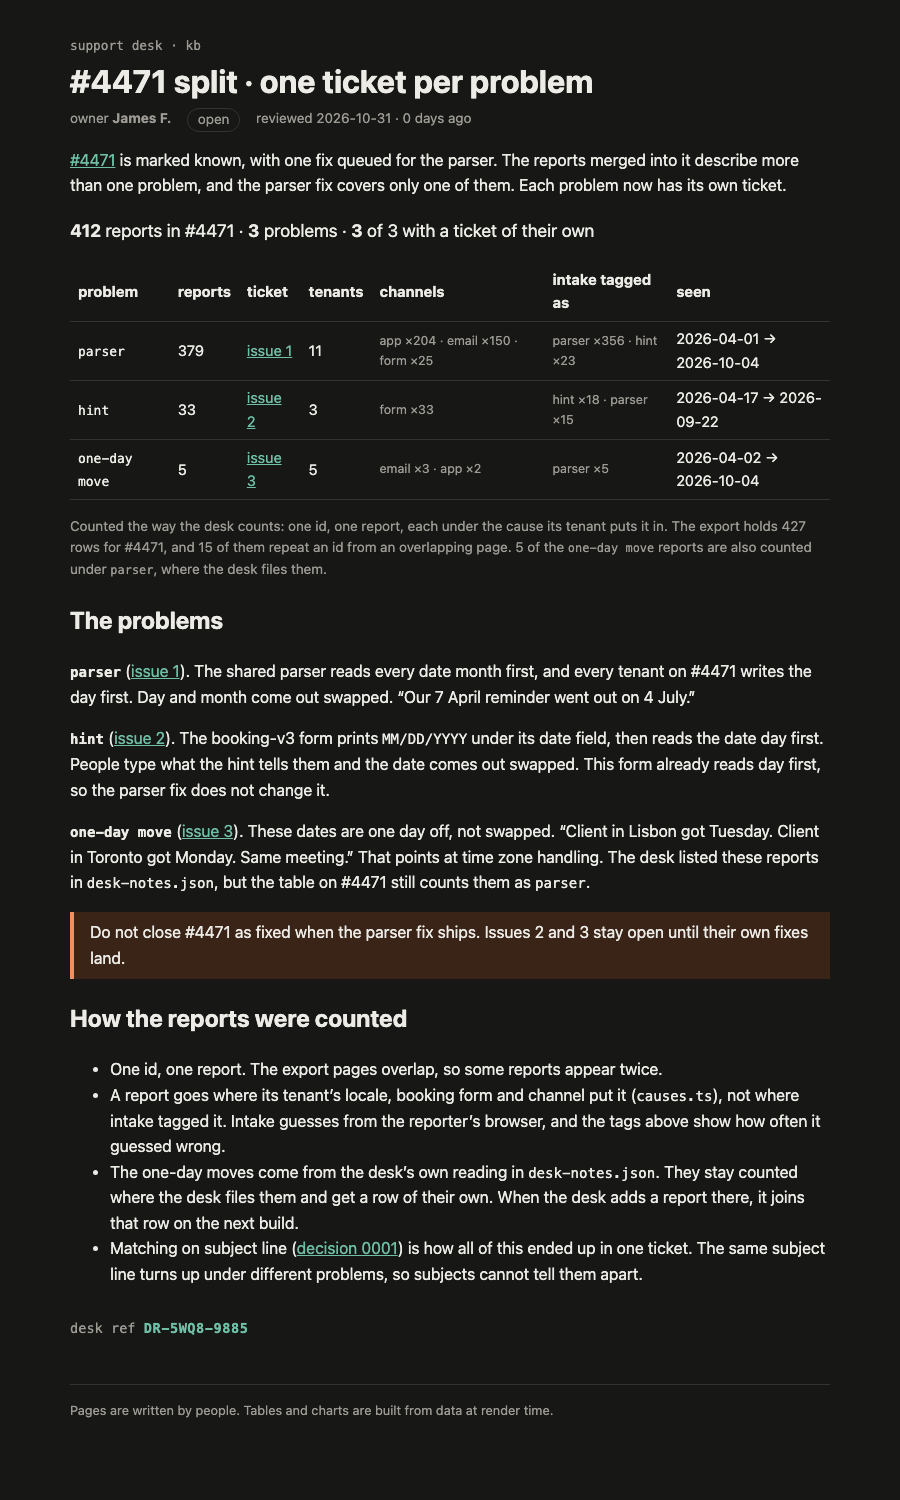
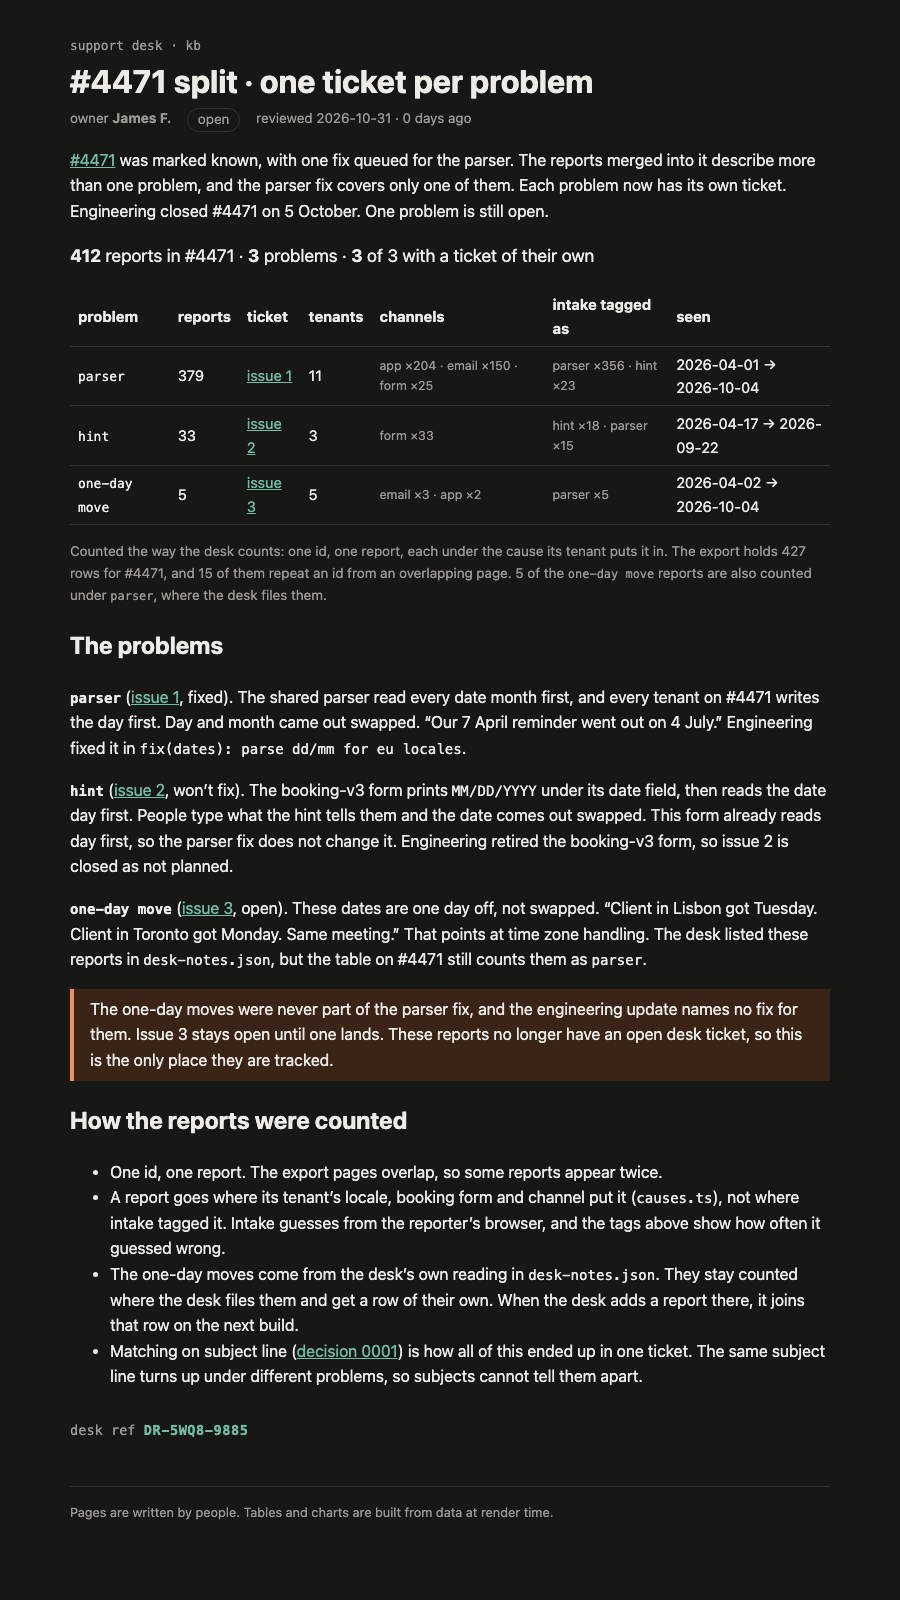
docs(kb): record engineering's 4471 outcome on the split page

Changed region(s): [[0.0622, 0.0307, 0.9333, 0.9507], [0.7467, 0.184, 0.84, 0.2453]]

diff --git a/rendered/kb/incidents/4471-split/index.html b/rendered/kb/incidents/4471-split/index.html
@@ -12,15 +12,19 @@ aside.svelte-17bri61{border-left:4px solid var(--accent);padding:.5rem 1rem;marg
 </style>
 		</head>
   <body data-sveltekit-preload-data="hover">
-    <div style="display: contents"><!--[--><!--[0--><!--[--><!--[--><div class="kb svelte-e2jw2j"><header><a class="crumb svelte-e2jw2j" href="/kb">support desk · kb</a> <h1 class="svelte-e2jw2j">#4471 split · one ticket per problem</h1> <p class="meta svelte-e2jw2j"><span>owner <b>James F.</b></span> <span class="status open svelte-e2jw2j">open</span> <span class="svelte-e2jw2j">reviewed 2026-10-31 · 0 days ago</span></p></header> <!--[-1--><!--]--> <main><p><a href="/kb/incidents/4471">#4471</a> is marked known, with one fix queued for the parser. The reports merged into it
-describe more than one problem, and the parser fix covers only one of them. Each problem now has its own ticket.</p> <p class="sum svelte-xskqqx"><strong>412</strong> reports in #4471 · <strong>3</strong> problems · <strong>3</strong> of 3 with a ticket of their own</p> <table><thead><tr><th>problem</th><th>reports</th><th>ticket</th><th>tenants</th><th>channels</th><th>intake tagged as</th><th>seen</th></tr></thead><tbody><!--[--><tr class="svelte-xskqqx"><td class="svelte-xskqqx"><code>parser</code></td><td class="svelte-xskqqx">379</td><td class="svelte-xskqqx"><!--[0--><a href="https://github.com/krispy-bacon-bits/MegaDev/issues/1">issue 1</a><!--]--></td><td class="svelte-xskqqx">11</td><td class="muted svelte-xskqqx">app ×204 · email ×150 · form ×25</td><td class="muted svelte-xskqqx">parser ×356 · hint ×23</td><td class="svelte-xskqqx">2026-04-01 → 2026-10-04</td></tr><tr class="svelte-xskqqx"><td class="svelte-xskqqx"><code>hint</code></td><td class="svelte-xskqqx">33</td><td class="svelte-xskqqx"><!--[0--><a href="https://github.com/krispy-bacon-bits/MegaDev/issues/2">issue 2</a><!--]--></td><td class="svelte-xskqqx">3</td><td class="muted svelte-xskqqx">form ×33</td><td class="muted svelte-xskqqx">hint ×18 · parser ×15</td><td class="svelte-xskqqx">2026-04-17 → 2026-09-22</td></tr><tr class="svelte-xskqqx"><td class="svelte-xskqqx"><code>one-day move</code></td><td class="svelte-xskqqx">5</td><td class="svelte-xskqqx"><!--[0--><a href="https://github.com/krispy-bacon-bits/MegaDev/issues/3">issue 3</a><!--]--></td><td class="svelte-xskqqx">5</td><td class="muted svelte-xskqqx">email ×3 · app ×2</td><td class="muted svelte-xskqqx">parser ×5</td><td class="svelte-xskqqx">2026-04-02 → 2026-10-04</td></tr><!--]--></tbody></table> <p class="note svelte-xskqqx">Counted the way the desk counts: one id, one report, each under the cause its tenant puts it in. The export holds
+    <div style="display: contents"><!--[--><!--[0--><!--[--><!--[--><div class="kb svelte-e2jw2j"><header><a class="crumb svelte-e2jw2j" href="/kb">support desk · kb</a> <h1 class="svelte-e2jw2j">#4471 split · one ticket per problem</h1> <p class="meta svelte-e2jw2j"><span>owner <b>James F.</b></span> <span class="status open svelte-e2jw2j">open</span> <span class="svelte-e2jw2j">reviewed 2026-10-31 · 0 days ago</span></p></header> <!--[-1--><!--]--> <main><p><a href="/kb/incidents/4471">#4471</a> was marked known, with one fix queued for the parser. The reports merged into it
+describe more than one problem, and the parser fix covers only one of them. Each problem now has its own ticket.
+Engineering closed #4471 on 5 October. One problem is still open.</p> <p class="sum svelte-xskqqx"><strong>412</strong> reports in #4471 · <strong>3</strong> problems · <strong>3</strong> of 3 with a ticket of their own</p> <table><thead><tr><th>problem</th><th>reports</th><th>ticket</th><th>tenants</th><th>channels</th><th>intake tagged as</th><th>seen</th></tr></thead><tbody><!--[--><tr class="svelte-xskqqx"><td class="svelte-xskqqx"><code>parser</code></td><td class="svelte-xskqqx">379</td><td class="svelte-xskqqx"><!--[0--><a href="https://github.com/krispy-bacon-bits/MegaDev/issues/1">issue 1</a><!--]--></td><td class="svelte-xskqqx">11</td><td class="muted svelte-xskqqx">app ×204 · email ×150 · form ×25</td><td class="muted svelte-xskqqx">parser ×356 · hint ×23</td><td class="svelte-xskqqx">2026-04-01 → 2026-10-04</td></tr><tr class="svelte-xskqqx"><td class="svelte-xskqqx"><code>hint</code></td><td class="svelte-xskqqx">33</td><td class="svelte-xskqqx"><!--[0--><a href="https://github.com/krispy-bacon-bits/MegaDev/issues/2">issue 2</a><!--]--></td><td class="svelte-xskqqx">3</td><td class="muted svelte-xskqqx">form ×33</td><td class="muted svelte-xskqqx">hint ×18 · parser ×15</td><td class="svelte-xskqqx">2026-04-17 → 2026-09-22</td></tr><tr class="svelte-xskqqx"><td class="svelte-xskqqx"><code>one-day move</code></td><td class="svelte-xskqqx">5</td><td class="svelte-xskqqx"><!--[0--><a href="https://github.com/krispy-bacon-bits/MegaDev/issues/3">issue 3</a><!--]--></td><td class="svelte-xskqqx">5</td><td class="muted svelte-xskqqx">email ×3 · app ×2</td><td class="muted svelte-xskqqx">parser ×5</td><td class="svelte-xskqqx">2026-04-02 → 2026-10-04</td></tr><!--]--></tbody></table> <p class="note svelte-xskqqx">Counted the way the desk counts: one id, one report, each under the cause its tenant puts it in. The export holds
   427 rows for #4471, and 15 of them repeat an id from an overlapping page. <!--[--><!--[--><!---->5 of the <code>one-day move</code> reports are also counted under <code>parser</code>, where the desk
-      files them.<!--]--><!--]--></p><!----> <h2>The problems</h2> <p><strong><code>parser</code></strong> (<a href="https://github.com/krispy-bacon-bits/MegaDev/issues/1" rel="nofollow">issue 1</a>). The shared parser reads every
-date month first, and every tenant on #4471 writes the day first. Day and month come out swapped. “Our 7 April
-reminder went out on 4 July.”</p> <p><strong><code>hint</code></strong> (<a href="https://github.com/krispy-bacon-bits/MegaDev/issues/2" rel="nofollow">issue 2</a>). The booking-v3 form prints <code>MM/DD/YYYY</code> under its date field, then reads the date day first. People type what the hint tells them and the
-date comes out swapped. This form already reads day first, so the parser fix does not change it.</p> <p><strong><code>one-day move</code></strong> (<a href="https://github.com/krispy-bacon-bits/MegaDev/issues/3" rel="nofollow">issue 3</a>). These dates are one day off,
+      files them.<!--]--><!--]--></p><!----> <h2>The problems</h2> <p><strong><code>parser</code></strong> (<a href="https://github.com/krispy-bacon-bits/MegaDev/issues/1" rel="nofollow">issue 1</a>, fixed). The shared parser read
+every date month first, and every tenant on #4471 writes the day first. Day and month came out swapped. “Our
+7 April reminder went out on 4 July.” Engineering fixed it in <code>fix(dates): parse dd/mm for eu locales</code>.</p> <p><strong><code>hint</code></strong> (<a href="https://github.com/krispy-bacon-bits/MegaDev/issues/2" rel="nofollow">issue 2</a>, won’t fix). The booking-v3 form prints <code>MM/DD/YYYY</code> under its date field, then reads the date day first. People type what the hint tells them and the
+date comes out swapped. This form already reads day first, so the parser fix does not change it.
+Engineering retired the booking-v3 form, so issue 2 is closed as not planned.</p> <p><strong><code>one-day move</code></strong> (<a href="https://github.com/krispy-bacon-bits/MegaDev/issues/3" rel="nofollow">issue 3</a>, open). These dates are one day off,
 not swapped. “Client in Lisbon got Tuesday. Client in Toronto got Monday. Same meeting.” That points at time zone
-handling. The desk listed these reports in <code>desk-notes.json</code>, but the table on #4471 still counts them as <code>parser</code>.</p> <aside class="warn svelte-17bri61"><!---->Do not close #4471 as fixed when the parser fix ships. Issues 2 and 3 stay open until their own fixes land.<!----></aside><!----> <h2>How the reports were counted</h2> <ul><li>One id, one report. The export pages overlap, so some reports appear twice.</li> <li>A report goes where its tenant’s locale, booking form and channel put it (<code>causes.ts</code>), not where intake tagged
+handling. The desk listed these reports in <code>desk-notes.json</code>, but the table on #4471 still counts them as <code>parser</code>.</p> <aside class="warn svelte-17bri61"><!---->The one-day moves were never part of the parser fix, and the engineering update names no fix for them. Issue 3
+stays open until one lands. These reports no longer have an open desk ticket, so this is the only place they are
+tracked.<!----></aside><!----> <h2>How the reports were counted</h2> <ul><li>One id, one report. The export pages overlap, so some reports appear twice.</li> <li>A report goes where its tenant’s locale, booking form and channel put it (<code>causes.ts</code>), not where intake tagged
 it. Intake guesses from the reporter’s browser, and the tags above show how often it guessed wrong.</li> <li>The one-day moves come from the desk’s own reading in <code>desk-notes.json</code>. They stay counted where the desk files
 them and get a row of their own. When the desk adds a report there, it joins that row on the next build.</li> <li>Matching on subject line (<a href="/kb/decisions/0001-dedupe-by-subject">decision 0001</a>) is how all of this ended up in
 one ticket. The same subject line turns up under different problems, so subjects cannot tell them apart.</li></ul> <!--[0--><p class="stamp svelte-1280m42">desk ref <b class="svelte-1280m42">DR-5WQ8-9885</b></p><!--]--><!----><!----></main> <footer class="svelte-e2jw2j">Pages are written by people. Tables and charts are built from data at render time.</footer></div><!--]--><!----><!--]--><!--]--> <!--[-1--><!--]--><!--]-->
